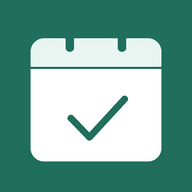
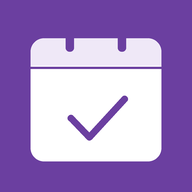
cambio in viola e esplicitazione uso anno precedente

diff --git a/index.html b/index.html
@@ -3,21 +3,21 @@
 <head>
 <meta charset="utf-8">
 <meta name="viewport" content="width=device-width, initial-scale=1, viewport-fit=cover">
-<meta name="theme-color" content="#1f6f5c">
+<meta name="theme-color" content="#6b3fa0">
 <meta name="color-scheme" content="light dark">
-<title>Ferie e permessi</title>
+<title>Ferie, Permessi e Banca Ore</title>
 <link rel="manifest" href="manifest.webmanifest">
 <link rel="icon" href="icon-192.png">
 <link rel="apple-touch-icon" href="icon-192.png">
 <style>
 :root{
-  --bg:#f4f6f5; --card:#ffffff; --ink:#18221f; --muted:#5d6b66; --line:#e1e7e4;
-  --accent:#1f6f5c; --accent-ink:#ffffff; --soft:#e6f2ee; --warn:#a15c00; --warn-bg:#fff4e0;
+  --bg:#f6f3fa; --card:#ffffff; --ink:#1f1830; --muted:#625a75; --line:#e4dcef;
+  --accent:#6b3fa0; --accent-ink:#ffffff; --soft:#efe8f7; --warn:#a15c00; --warn-bg:#fff4e0;
   --bad:#b3261e; --bad-bg:#fdecea; --ok:#1d6b3a; --yellow:#fff6d6;
 }
 @media (prefers-color-scheme:dark){
-  :root{--bg:#0f1513; --card:#18211e; --ink:#e8efec; --muted:#9aaaa4; --line:#2a3631;
-    --accent:#4fb99b; --accent-ink:#06211a; --soft:#1d2d28; --warn:#ffcf70; --warn-bg:#3a2d12;
+  :root{--bg:#14101c; --card:#1e1829; --ink:#ece7f5; --muted:#a79fba; --line:#352b48;
+    --accent:#b99aef; --accent-ink:#1d0f35; --soft:#2b2140; --warn:#ffcf70; --warn-bg:#3a2d12;
     --bad:#ff8a80; --bad-bg:#3b1816; --ok:#7fd69b; --yellow:#3a3515}
 }
 *{box-sizing:border-box;-webkit-tap-highlight-color:transparent}
@@ -37,6 +37,8 @@ main{max-width:640px;margin:0 auto;padding:14px 16px}
 .row{display:flex;justify-content:space-between;gap:12px;padding:9px 0;border-bottom:1px solid var(--line);font-size:15px}
 .row:last-child{border-bottom:0}
 .row b{font-weight:650;text-align:right}
+.row.sub2{padding:6px 0 6px 14px;font-size:14px;color:var(--muted)}
+.row.sub2 b{font-weight:600;color:var(--ink)}
 .note{margin:10px 0 0;padding:10px 12px;border-radius:12px;background:var(--warn-bg);color:var(--warn);font-size:14px}
 .note.info{background:var(--soft);color:var(--ink)}
 .note.bad{background:var(--bad-bg);color:var(--bad)}
@@ -71,14 +73,14 @@ th{color:var(--muted);font-weight:600;font-size:12px}
 .list .item:last-child{border-bottom:0}
 .list .t{font-weight:650}
 .list .d{font-size:13px;color:var(--muted)}
-.toast{position:fixed;left:16px;right:16px;bottom:calc(84px + env(safe-area-inset-bottom));background:#18221f;color:#fff;padding:12px 14px;border-radius:12px;font-size:14px;opacity:0;pointer-events:none;transition:opacity .2s;max-width:608px;margin:0 auto}
+.toast{position:fixed;left:16px;right:16px;bottom:calc(84px + env(safe-area-inset-bottom));background:#2a1f3f;color:#fff;padding:12px 14px;border-radius:12px;font-size:14px;opacity:0;pointer-events:none;transition:opacity .2s;max-width:608px;margin:0 auto}
 .toast.on{opacity:1}
 a{color:var(--accent)}
 </style>
 </head>
 <body>
 <header>
-  <h1>Ferie e permessi</h1>
+  <h1>Ferie, Permessi e Banca Ore</h1>
   <p id="aggiornato"></p>
   <span class="sync" id="sync">…</span>
 </header>

diff --git a/app.js b/app.js
@@ -97,13 +97,18 @@
     h += '<div class="big">' + gi + ' <small>' + plural(gi, 'giorno', 'giorni') + '</small></div>';
     h += '<p class="sub">' + f(st.res) + ' ore in tutto · 1 giorno = ' + fp(set.oreGiorno) + ' ore</p>';
     h += '<div class="rows">';
-    if (st.arretratiRimasti > 0) {
-      h += '<div class="row"><span>Arretrati dell’anno scorso ancora da usare</span><b>' + f(st.arretratiRimasti) + ' ore (' + E.giorni(st.arretratiRimasti, set.oreGiorno) + ' gg)</b></div>';
-    } else {
-      h += '<div class="row"><span>Arretrati dell’anno scorso</span><b>' + (st.arretratiUsati > 0 ? 'già usati' : 'nessuno') + '</b></div>';
-    }
     h += '<div class="row"><span>Maturati quest’anno</span><b>' + f(st.mat) + ' ore</b></div>';
-    h += '<div class="row"><span>Goduti quest’anno</span><b>' + f(st.god) + ' ore (' + E.giorni(st.god, set.oreGiorno) + ' gg)</b></div>';
+    var godGg = E.giorni(st.god, set.oreGiorno);
+    h += '<div class="row"><span>Goduti quest’anno</span><b>' + godGg + ' gg · ' + f(st.god) + ' ore</b></div>';
+    if (st.prec > 0) {
+      var arrGg = Math.min(E.giorni(st.arretratiUsati, set.oreGiorno), godGg);
+      var annoOre = Math.max(0, E.r2(st.god - st.arretratiUsati));
+      h += '<div class="row sub2"><span>di cui dell’anno scorso</span><b>' + arrGg + ' gg · ' + f(st.arretratiUsati) + ' ore</b></div>';
+      h += '<div class="row sub2"><span>di cui di quest’anno</span><b>' + (godGg - arrGg) + ' gg · ' + f(annoOre) + ' ore</b></div>';
+    }
+    if (st.arretratiRimasti > 0) {
+      h += '<div class="row"><span>Arretrati ancora da usare</span><b>' + f(st.arretratiRimasti) + ' ore (' + E.giorni(st.arretratiRimasti, set.oreGiorno) + ' gg)</b></div>';
+    }
     h += '<div class="row"><span>A dicembre, se non usi altro</span><b>' + gf + ' gg · ' + f(st.fineAnno) + ' ore</b></div>';
     h += '</div>';
     if (Math.abs(st.diff) > 0.01) h += '<div class="note bad">Attenzione: i numeri di questa busta paga non tornano tra loro (differenza ' + f(st.diff) + ' ore). Controlla in “Inserisci”.</div>';

diff --git a/sw.js b/sw.js
@@ -1,6 +1,6 @@
 // Service worker: tiene l'app disponibile anche senza connessione.
 // Cambia il numero di versione ogni volta che aggiorni i file, così il telefono scarica quelli nuovi.
-const VERSIONE = 'v1';
+const VERSIONE = 'v3';
 const FILE = ['./', 'index.html', 'app.js', 'engine.js', 'config.js', 'manifest.webmanifest',
   'icon-192.png', 'icon-512.png', 'icon-512-maskable.png'];
 
